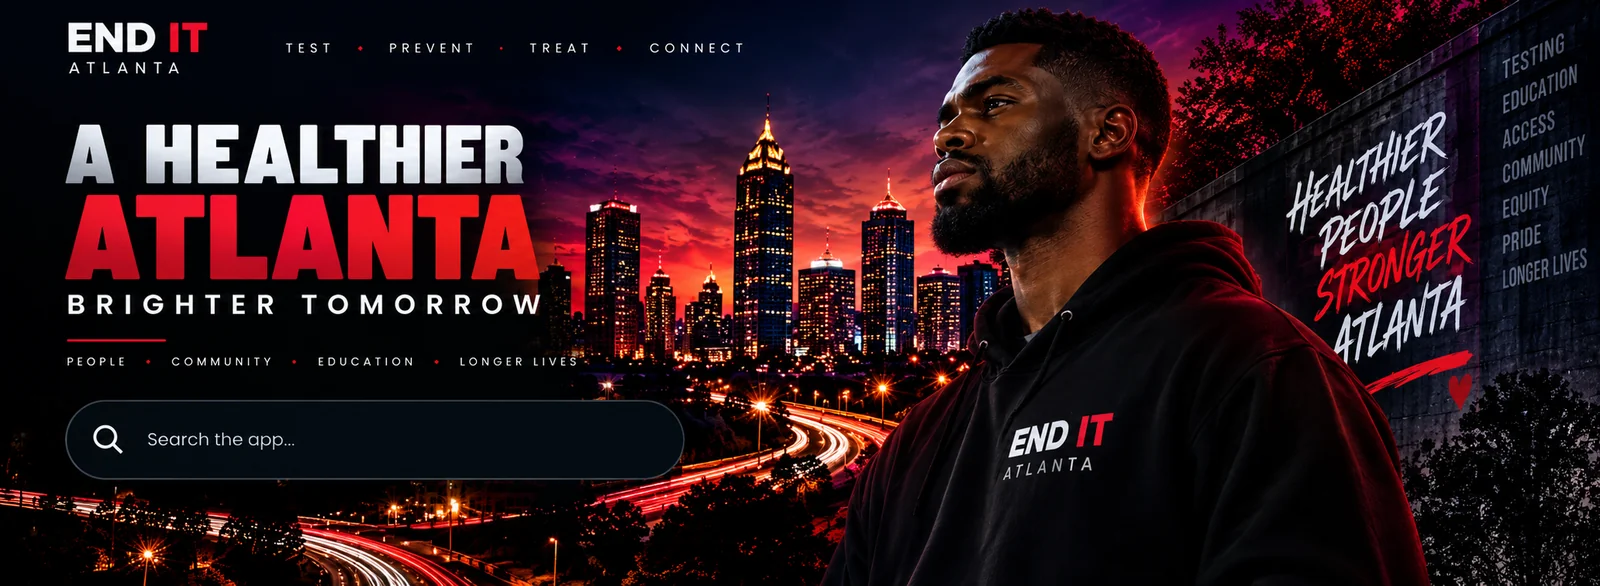
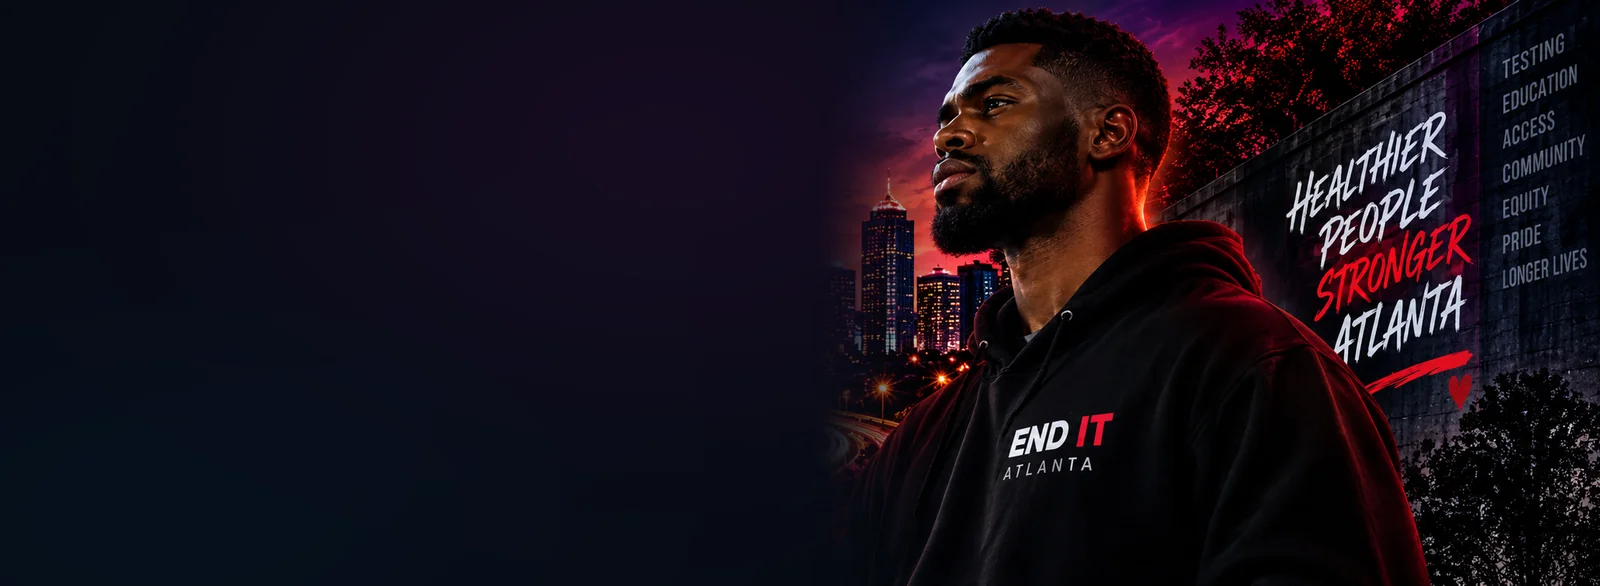
Restore live greeting/search in HomeHero; wire corrected asset pack (hero, events, composer, feed) with no baked text

diff --git a/src/app/feed/page.tsx b/src/app/feed/page.tsx
@@ -6,6 +6,8 @@ import PostComposer from "@/components/PostComposer";
 import PostCard from "@/components/PostCard";
 import ImageBackdrop from "@/components/ImageBackdrop";
 import QuickActionTile from "@/components/QuickActionTile";
+import HomeHero from "@/components/HomeHero";
+import FeedEmptyState from "@/components/FeedEmptyState";
 import { getFeedPosts } from "@/lib/posts";
 import { createClient } from "@/lib/supabase/server";
 import { EVENTS } from "@/lib/events-data";
@@ -117,19 +119,7 @@ export default async function FeedPage() {
       <Nav />
       <main className="eit-app flex-1 pb-24">
         <div className="eit-shell flex flex-col gap-2">
-          <ImageBackdrop
-            realSrc={`${ASSET}/home/home_hero_atlanta_banner.webp`}
-            fallbackSrc={`${ASSET}/backgrounds/atlanta-light-trails.webp`}
-            scrim="transparent"
-            className="rounded-2xl aspect-[1600/586] shadow-2xl shadow-black/40"
-          >
-            {null}
-          </ImageBackdrop>
-
-          <p className="text-sm text-[#B3C2D4] px-1">
-            {firstName ? `Hey there, ${firstName} — ` : "Hey there — "}
-            let&apos;s make a healthier, stronger Atlanta together.
-          </p>
+          <HomeHero firstName={firstName} />
 
           <div className="eit-section">
             <div className="eit-grid">
@@ -172,28 +162,30 @@ export default async function FeedPage() {
               </Link>
             ) : (
               <ImageBackdrop
-                realSrc={`${ASSET}/home/coming_for_you_events_state.png`}
+                realSrc={`${ASSET}/home/coming_for_you_events_state.webp`}
                 fallbackSrc={`${ASSET}/backgrounds/atmosphere-pink.svg`}
-                scrim="linear-gradient(180deg, rgb(6 11 19 / .4) 0%, rgb(6 11 19 / .88) 100%)"
-                className="rounded-2xl min-h-[190px] flex flex-col items-center justify-center text-center gap-3 px-6 py-8 shadow-lg shadow-black/30"
+                scrim="transparent"
+                className="rounded-2xl min-h-[150px] flex items-center px-5 py-5 shadow-lg shadow-black/30"
               >
-                {/* eslint-disable-next-line @next/next/no-img-element */}
-                <img
-                  src={`${ASSET}/empty-states/events.svg`}
-                  alt=""
-                  width={68}
-                  height={68}
-                  className="opacity-90"
-                />
-                <p className="text-sm text-[#F7FAFF] max-w-[26ch] font-medium">
-                  No upcoming events on the calendar right now — check back soon.
-                </p>
-                <Link
-                  href="/events"
-                  className="inline-flex items-center gap-1.5 rounded-full border border-white/30 text-[#F7FAFF] text-xs font-bold uppercase tracking-wide px-4 py-2 hover:bg-white/10 transition-colors"
-                >
-                  Browse Events
-                </Link>
+                <div className="flex flex-col gap-3 max-w-[75%] sm:max-w-[60%]">
+                  <p className="text-sm text-[#F7FAFF] font-medium">
+                    No upcoming events right now. Check back for new dates.
+                  </p>
+                  <div className="flex flex-wrap gap-2">
+                    <Link
+                      href="/events"
+                      className="inline-flex items-center gap-1.5 rounded-full border border-white/30 text-[#F7FAFF] text-xs font-bold uppercase tracking-wide px-4 py-2 hover:bg-white/10 transition-colors"
+                    >
+                      Browse Events
+                    </Link>
+                    <Link
+                      href="/discover?tab=community"
+                      className="inline-flex items-center gap-1.5 rounded-full border border-white/30 text-[#F7FAFF] text-xs font-bold uppercase tracking-wide px-4 py-2 hover:bg-white/10 transition-colors"
+                    >
+                      Explore Community
+                    </Link>
+                  </div>
+                </div>
               </ImageBackdrop>
             )}
           </div>
@@ -207,15 +199,12 @@ export default async function FeedPage() {
 
               {posts.length === 0 ? (
                 <ImageBackdrop
-                  realSrc={`${ASSET}/home/community_feed_placeholder.png`}
+                  realSrc={`${ASSET}/home/community_feed_placeholder.webp`}
                   fallbackSrc={`${ASSET}/backgrounds/crown-graffiti.webp`}
-                  scrim="linear-gradient(180deg, rgb(6 11 19 / .35) 0%, rgb(6 11 19 / .9) 100%)"
-                  className="rounded-2xl min-h-[170px] flex flex-col items-center justify-center text-center gap-2 px-6 py-8 shadow-lg shadow-black/30"
+                  scrim="linear-gradient(90deg, rgb(6 11 19 / .55) 0%, rgb(6 11 19 / .25) 60%)"
+                  className="rounded-2xl min-h-[150px] flex items-center px-5 py-5 shadow-lg shadow-black/30"
                 >
-                  <p className="text-sm font-semibold text-[#F7FAFF]">Start the conversation.</p>
-                  <p className="text-xs text-[#B3C2D4] max-w-[30ch]">
-                    Share what&apos;s going on in your city — be the first to post.
-                  </p>
+                  <FeedEmptyState />
                 </ImageBackdrop>
               ) : (
                 posts.map((post) => <PostCard key={post.id} post={post} />)

diff --git a/src/components/HomeHero.tsx b/src/components/HomeHero.tsx
@@ -1,0 +1,74 @@
+import HomeSearchBar from "@/components/HomeSearchBar";
+
+const ASSET = "/assets/endit/v1";
+
+/**
+ * Compact homepage greeting hero -- NOT a full-height takeover.
+ *
+ * The greeting/search are always real, live UI rendered from the current
+ * signed-in user's data (`firstName` comes from the caller, which reads
+ * it fresh from Supabase per request -- never hard-coded, never baked
+ * into an image). The artwork here is purely decorative brand atmosphere
+ * with real negative space built in on the left side -- it has no baked
+ * headline, search box, or personal name, so there's nothing for the
+ * real copy to collide or duplicate with.
+ *
+ * Two responsive layouts, per spec:
+ * - Phone (default): a short ~128px art strip on top (using the
+ *   phone-specific crop, so the subject's face stays visible instead of
+ *   being dictated by the source's tall 1000x750 ratio), with the real
+ *   greeting + search stacked below in the same dark card.
+ * - md and up: side-by-side -- real greeting/search on the dark left,
+ *   the wide banner art filling the right/full width behind it (the
+ *   art's own built-in left-side gradient blends into the card
+ *   background so overlaid text stays readable without an extra scrim
+ *   fighting the image).
+ */
+export default function HomeHero({ firstName }: { firstName: string }) {
+  const greeting = firstName ? `Hey there, ${firstName}.` : "Hey there.";
+
+  return (
+    <div className="rounded-2xl overflow-hidden bg-[#0A1422] border border-white/10 shadow-2xl shadow-black/40">
+      {/* Phone layout */}
+      <div className="md:hidden">
+        <div className="relative w-full h-28 sm:h-32">
+          {/* eslint-disable-next-line @next/next/no-img-element */}
+          <img
+            src={`${ASSET}/home/home_hero_atlanta_mobile.webp`}
+            alt=""
+            className="absolute inset-0 w-full h-full object-cover"
+            style={{ objectPosition: "68% 22%" }}
+          />
+        </div>
+        <div className="p-4 flex flex-col gap-3">
+          <div>
+            <p className="eit-kicker text-gold">Test. Prevent. Treat. Connect.</p>
+            <h2 className="text-2xl mt-1 text-[#F7FAFF] font-display break-words">{greeting}</h2>
+          </div>
+          <HomeSearchBar />
+        </div>
+      </div>
+
+      {/* Tablet/desktop layout */}
+      <div className="hidden md:block relative min-h-[240px]">
+        {/* eslint-disable-next-line @next/next/no-img-element */}
+        <img
+          src={`${ASSET}/home/home_hero_atlanta_banner.webp`}
+          alt=""
+          className="absolute inset-0 w-full h-full object-cover"
+          style={{ objectPosition: "78% center" }}
+        />
+        <div className="relative z-10 flex flex-col justify-center gap-3 h-full min-h-[240px] px-8 py-6 max-w-md">
+          <div>
+            <p className="eit-kicker text-gold">Test. Prevent. Treat. Connect.</p>
+            <h2 className="text-4xl mt-1 text-[#F7FAFF] font-display break-words">{greeting}</h2>
+            <p className="text-sm text-[#B3C2D4] mt-2">
+              Let&apos;s make a healthier, stronger Atlanta together.
+            </p>
+          </div>
+          <HomeSearchBar />
+        </div>
+      </div>
+    </div>
+  );
+}

diff --git a/src/components/PostComposer.tsx b/src/components/PostComposer.tsx
@@ -15,7 +15,7 @@ export default function PostComposer() {
 
   return (
     <ImageBackdrop
-      realSrc="/assets/endit/v1/home/community_conversation_bg.png"
+      realSrc="/assets/endit/v1/home/community_conversation_bg.webp"
       fallbackSrc="/assets/endit/v1/backgrounds/atmosphere-green.svg"
       scrim="linear-gradient(160deg, rgb(6 11 19 / .92) 0%, rgb(6 11 19 / .8) 100%)"
       className="rounded-2xl border border-[#304055] shadow-lg shadow-black/30"
@@ -28,13 +28,17 @@ export default function PostComposer() {
         }}
         className="text-[#F7FAFF] p-4 flex flex-col gap-3"
       >
+        <label htmlFor="post-composer-textarea" className="sr-only">
+          What&apos;s happening in Atlanta?
+        </label>
         <textarea
+          id="post-composer-textarea"
           name="content"
           required
           maxLength={2000}
           rows={3}
           placeholder="What's happening in Atlanta?"
-          className="resize-none rounded-lg border border-white/15 bg-black/40 backdrop-blur-sm text-[#F7FAFF] placeholder:text-[#98ADC7] px-3 py-2.5 text-base outline-none focus:border-gold"
+          className="resize-none rounded-lg border border-white/15 bg-[#060B13]/95 text-[#F7FAFF] placeholder:text-[#98ADC7] px-3 py-2.5 text-base outline-none focus:border-gold"
         />
         {state?.error && (
           <p role="alert" className="text-red-dark text-sm font-semibold">

diff --git a/src/components/FeedEmptyState.tsx b/src/components/FeedEmptyState.tsx
@@ -1,0 +1,28 @@
+"use client";
+
+/**
+ * Empty-feed illustration copy. This is real, live UI text (not baked
+ * into the background art) -- clicking it focuses the actual composer
+ * textarea above it rather than doing nothing.
+ */
+export default function FeedEmptyState() {
+  return (
+    <div className="flex flex-col gap-2 max-w-[75%] sm:max-w-[60%]">
+      <p className="text-sm font-semibold text-[#F7FAFF]">Start the conversation.</p>
+      <p className="text-xs text-[#B3C2D4]">
+        Share what&apos;s going on in your city — be the first to post.
+      </p>
+      <button
+        type="button"
+        onClick={() => {
+          const el = document.getElementById("post-composer-textarea") as HTMLTextAreaElement | null;
+          el?.focus();
+          el?.scrollIntoView({ behavior: "smooth", block: "center" });
+        }}
+        className="self-start mt-1 inline-flex items-center gap-1.5 rounded-full border border-white/30 text-[#F7FAFF] text-xs font-bold uppercase tracking-wide px-4 py-2 hover:bg-white/10 transition-colors"
+      >
+        Write a Post
+      </button>
+    </div>
+  );
+}
